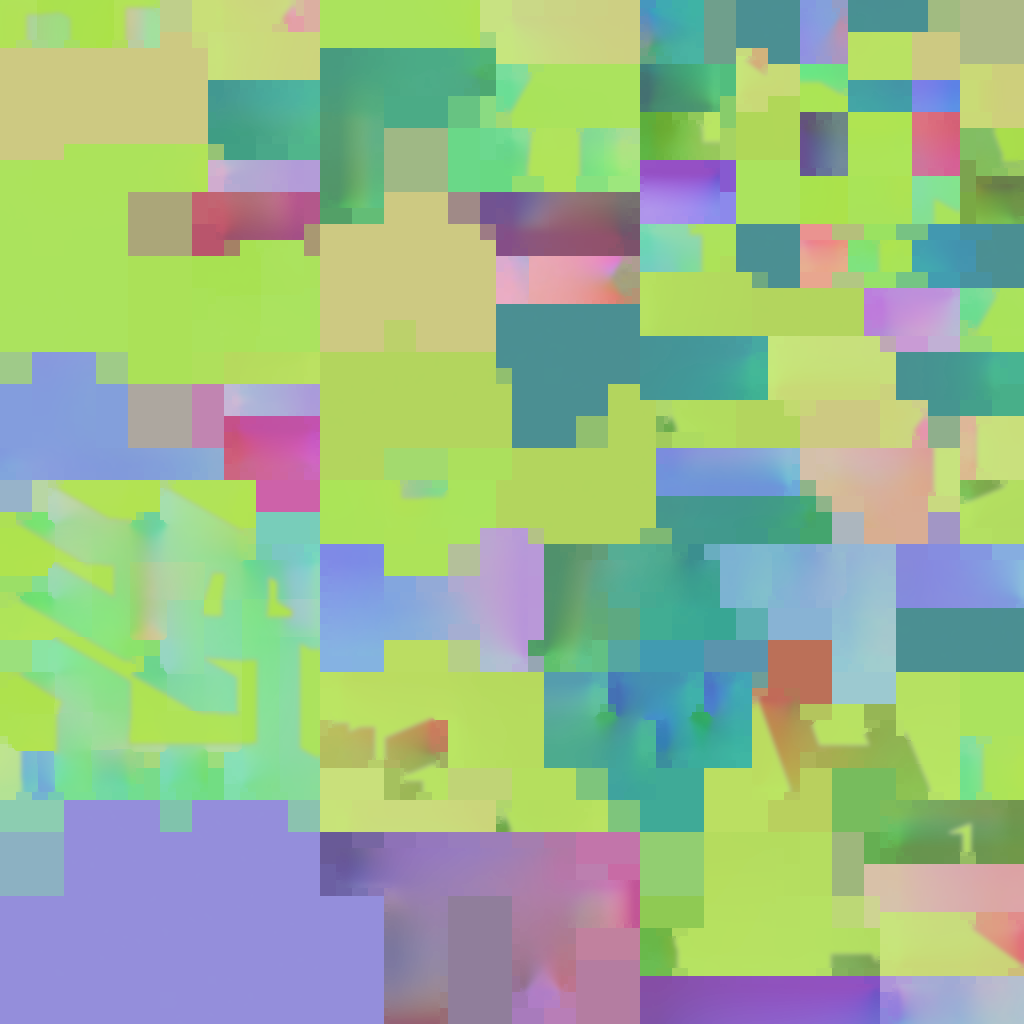
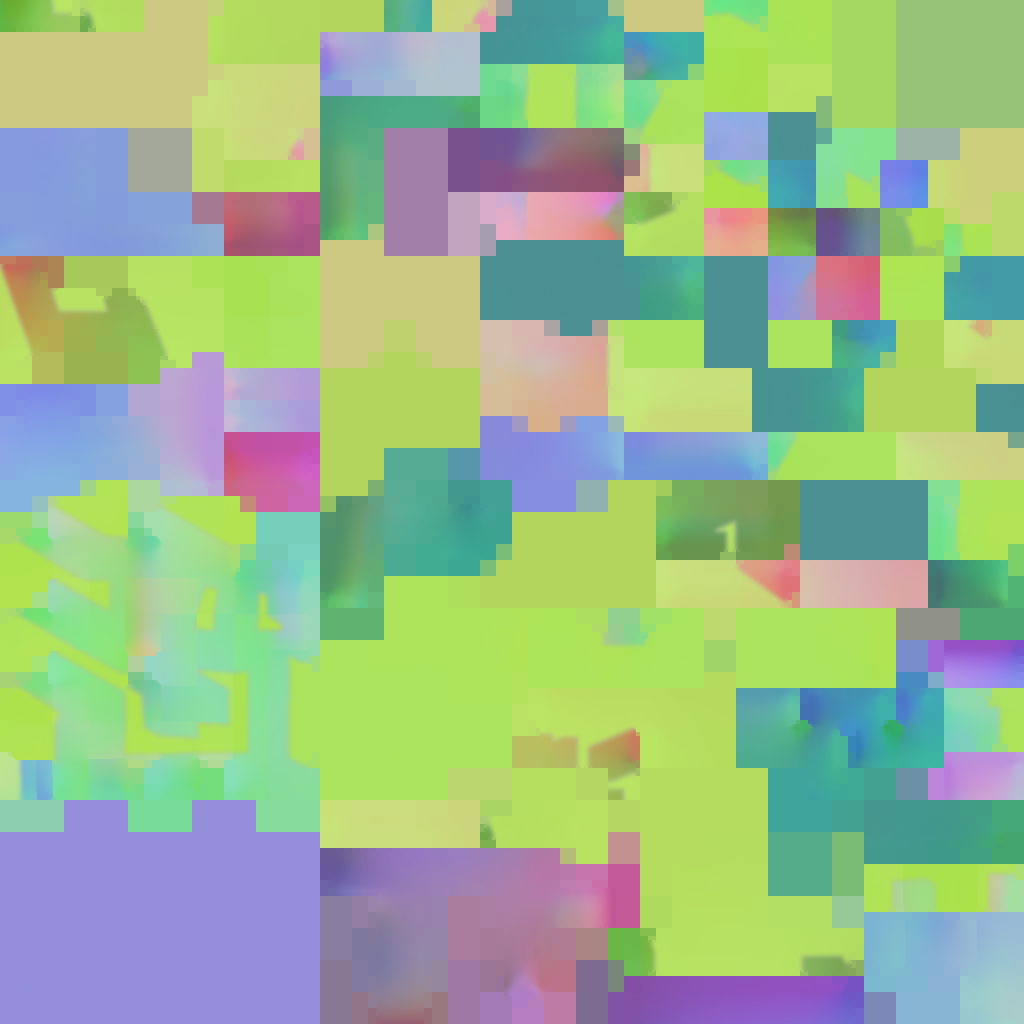
Fixed wall grab angle( NinjaCat)
Fixed wall grab angle( NinjaCat) , added a head bob when touch a roof to (Player Controller), some map2 adjustments

diff --git a/Assets/Scripts/Player.cs b/Assets/Scripts/Player.cs
@@ -289,12 +289,14 @@ public class Player : PlayerController
         }
     }
 
-    private void OnControllerColliderHit(ControllerColliderHit hit)
+    public override void OnControllerColliderHit(ControllerColliderHit hit)
     {
+        base.OnControllerColliderHit(hit);
+
         if (wallDirection != Vector3.zero)
             return;
 
-        if ((characterController.collisionFlags & CollisionFlags.Sides) != 0 && DistanceBetweenGround() > 1.5f && WallHeightIsEnough(hit.normal))
+        if ((characterController.collisionFlags & CollisionFlags.Sides) != 0 && DistanceBetweenGround() > 1.5f && WallHeightIsEnough(hit.normal) && hit.normal.y * 90f >= -20)
         {
             audioPlayer.playSoundWalkFootStep();
 

diff --git a/Assets/Scripts/PlayerController.cs b/Assets/Scripts/PlayerController.cs
@@ -183,4 +183,10 @@ public class PlayerController : NetworkBehaviour
                 return true;
         return false;
     }
+
+    public virtual void OnControllerColliderHit(ControllerColliderHit hit)
+    {
+        if ((characterController.collisionFlags & CollisionFlags.Above) != 0)
+            AddImpact(Vector3.up, -10);
+    }
 }